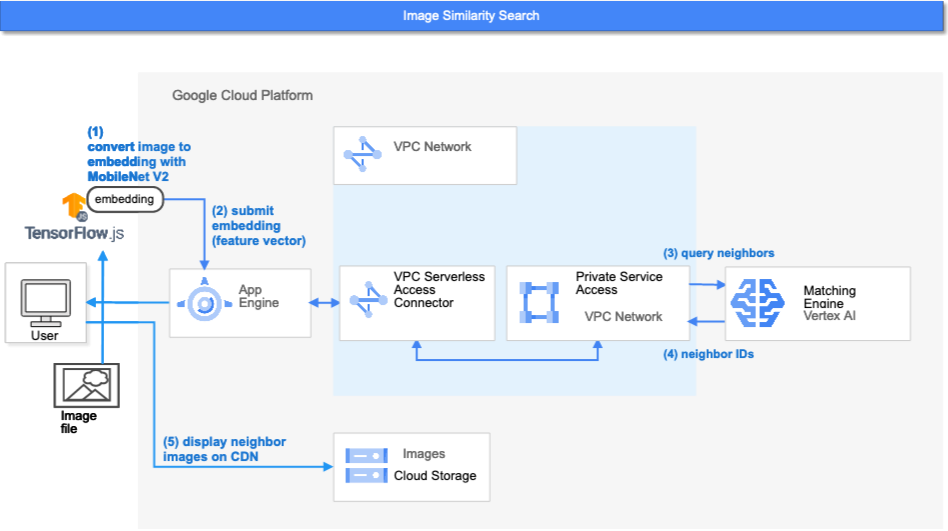
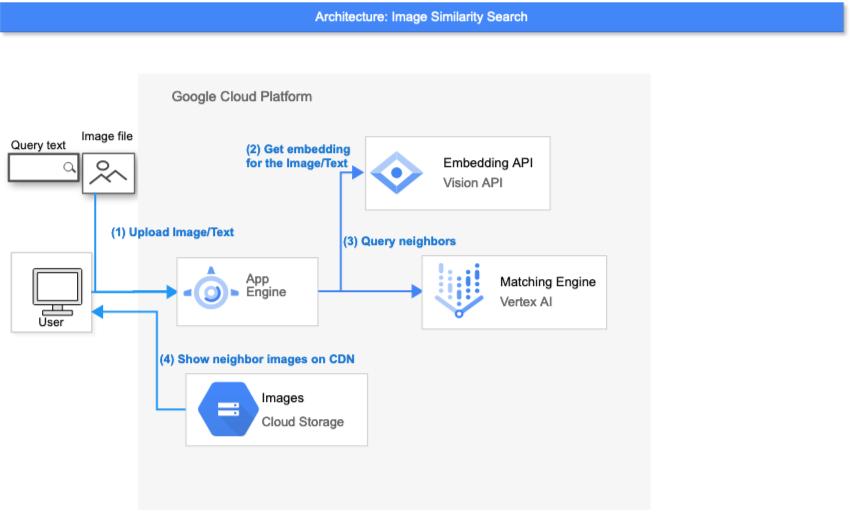
Update architecture diagrams.

diff --git a/doc/HOW_IT_WORKS.md b/doc/HOW_IT_WORKS.md
@@ -16,12 +16,17 @@ The figure below shows the data flow when you upload custom image to search simi
 
 ![Image Similarity Search](images/ImageSimilaritySearch.png)
 
-When you select your own image on your browser, MatchIt Fast app process it with [Tensorflow.js](https://www.tensorflow.org/js/) models derived fromo [TFHub](https://tfhub.dev).
-The image feature vector is derived by [MobileNet V2](https://tfhub.dev/google/imagenet/mobilenet_v2_100_224/feature_vector/5) model.
-The image you selected doesn't upload to serverside. The browser upload only the embedding (feature vector) of the image to App Engine.
+When you select your own image on your browser, MatchIt Fast app process it with [Vertex AI Embeddings API for Image](https://cloud.google.com/vertex-ai/docs/generative-ai/embeddings/get-image-embeddings).
 
 The nearest neighbors search request is issued to the Matching Engine endpoints.
-The latency shown on the result page shows the turn around time of this query process between App Engine and Vertex Matching Engine.
+
+The neighbor images are directly downloaded to browser from CDN (public Google Cloud Storage bucket).
+
+!Image Search by Text
+
+When you input query text, MatchIt Fast app process it with [Vertex AI Embeddings API for Text](https://cloud.google.com/vertex-ai/docs/generative-ai/embeddings/get-text-embeddings).
+
+The nearest neighbors search request is issued to the Matching Engine endpoints.
 
 The neighbor images are directly downloaded to browser from CDN (public Google Cloud Storage bucket).
 
